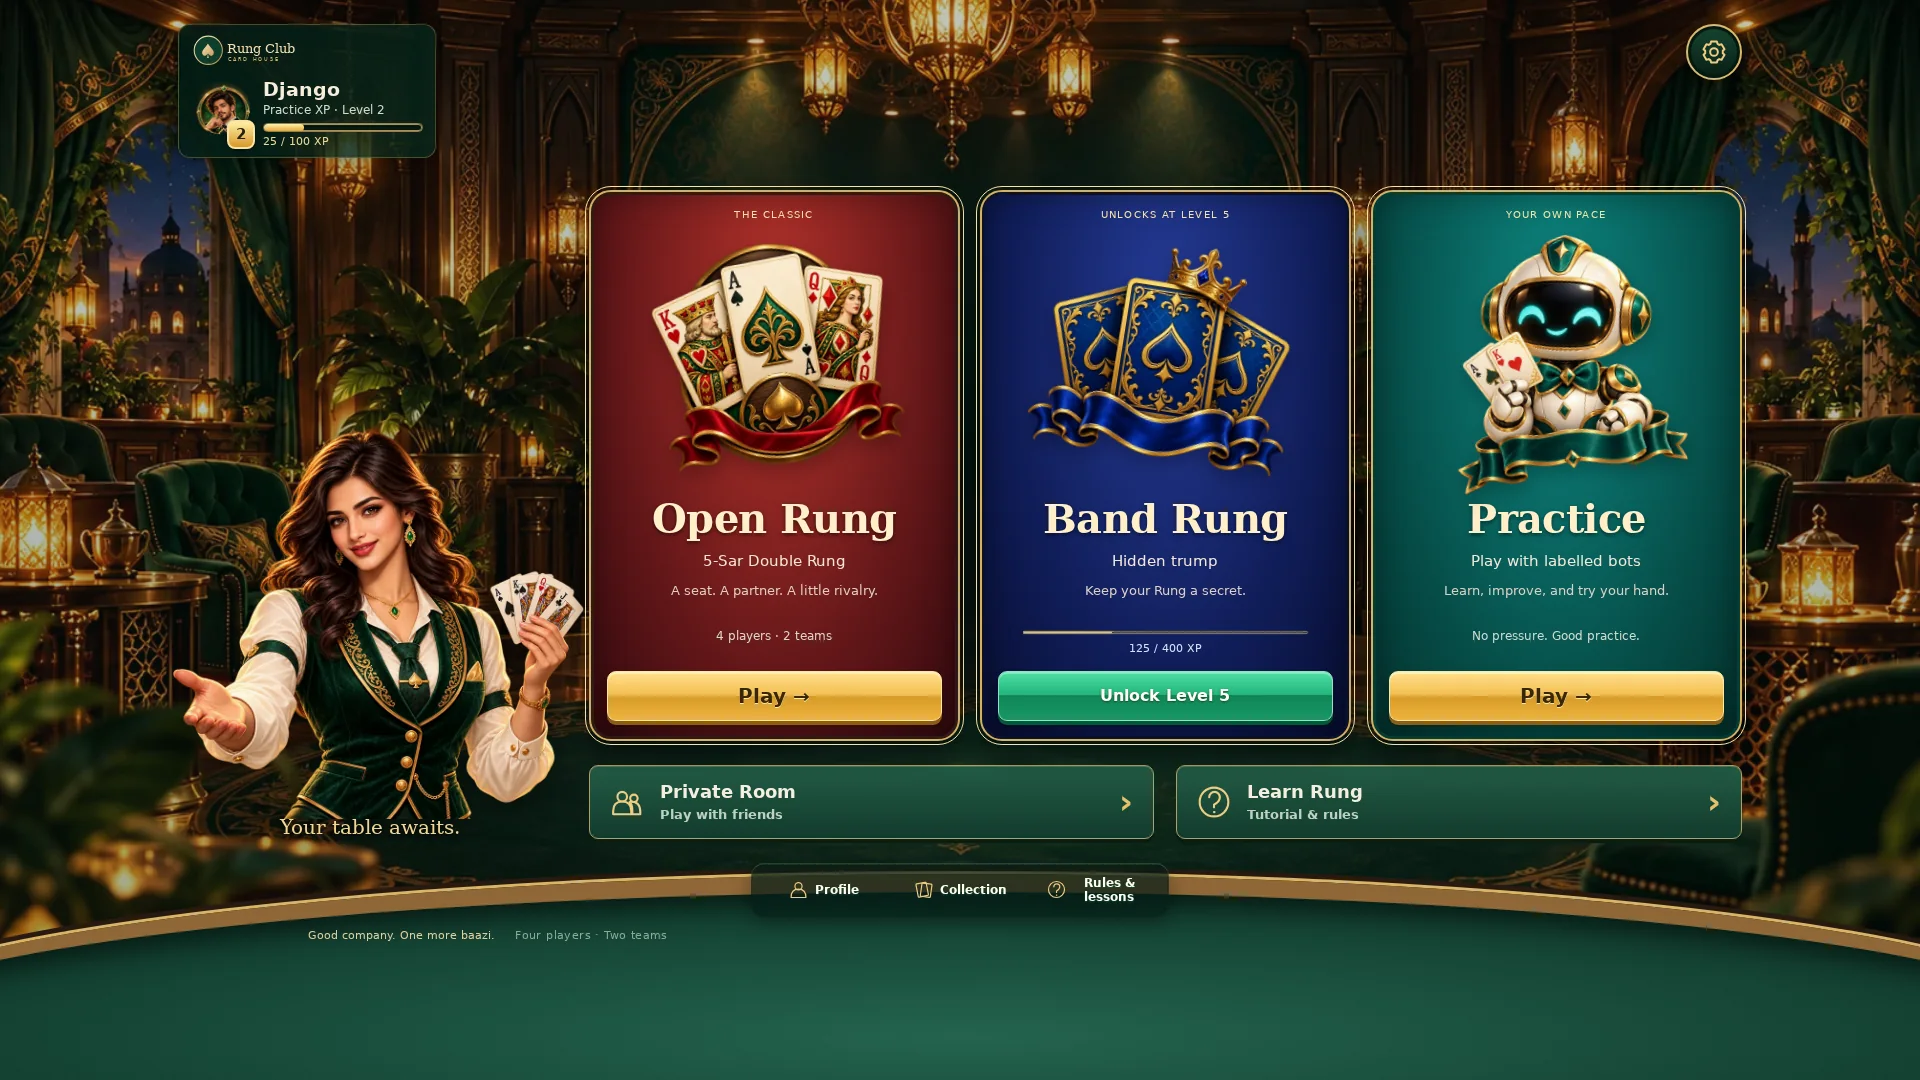
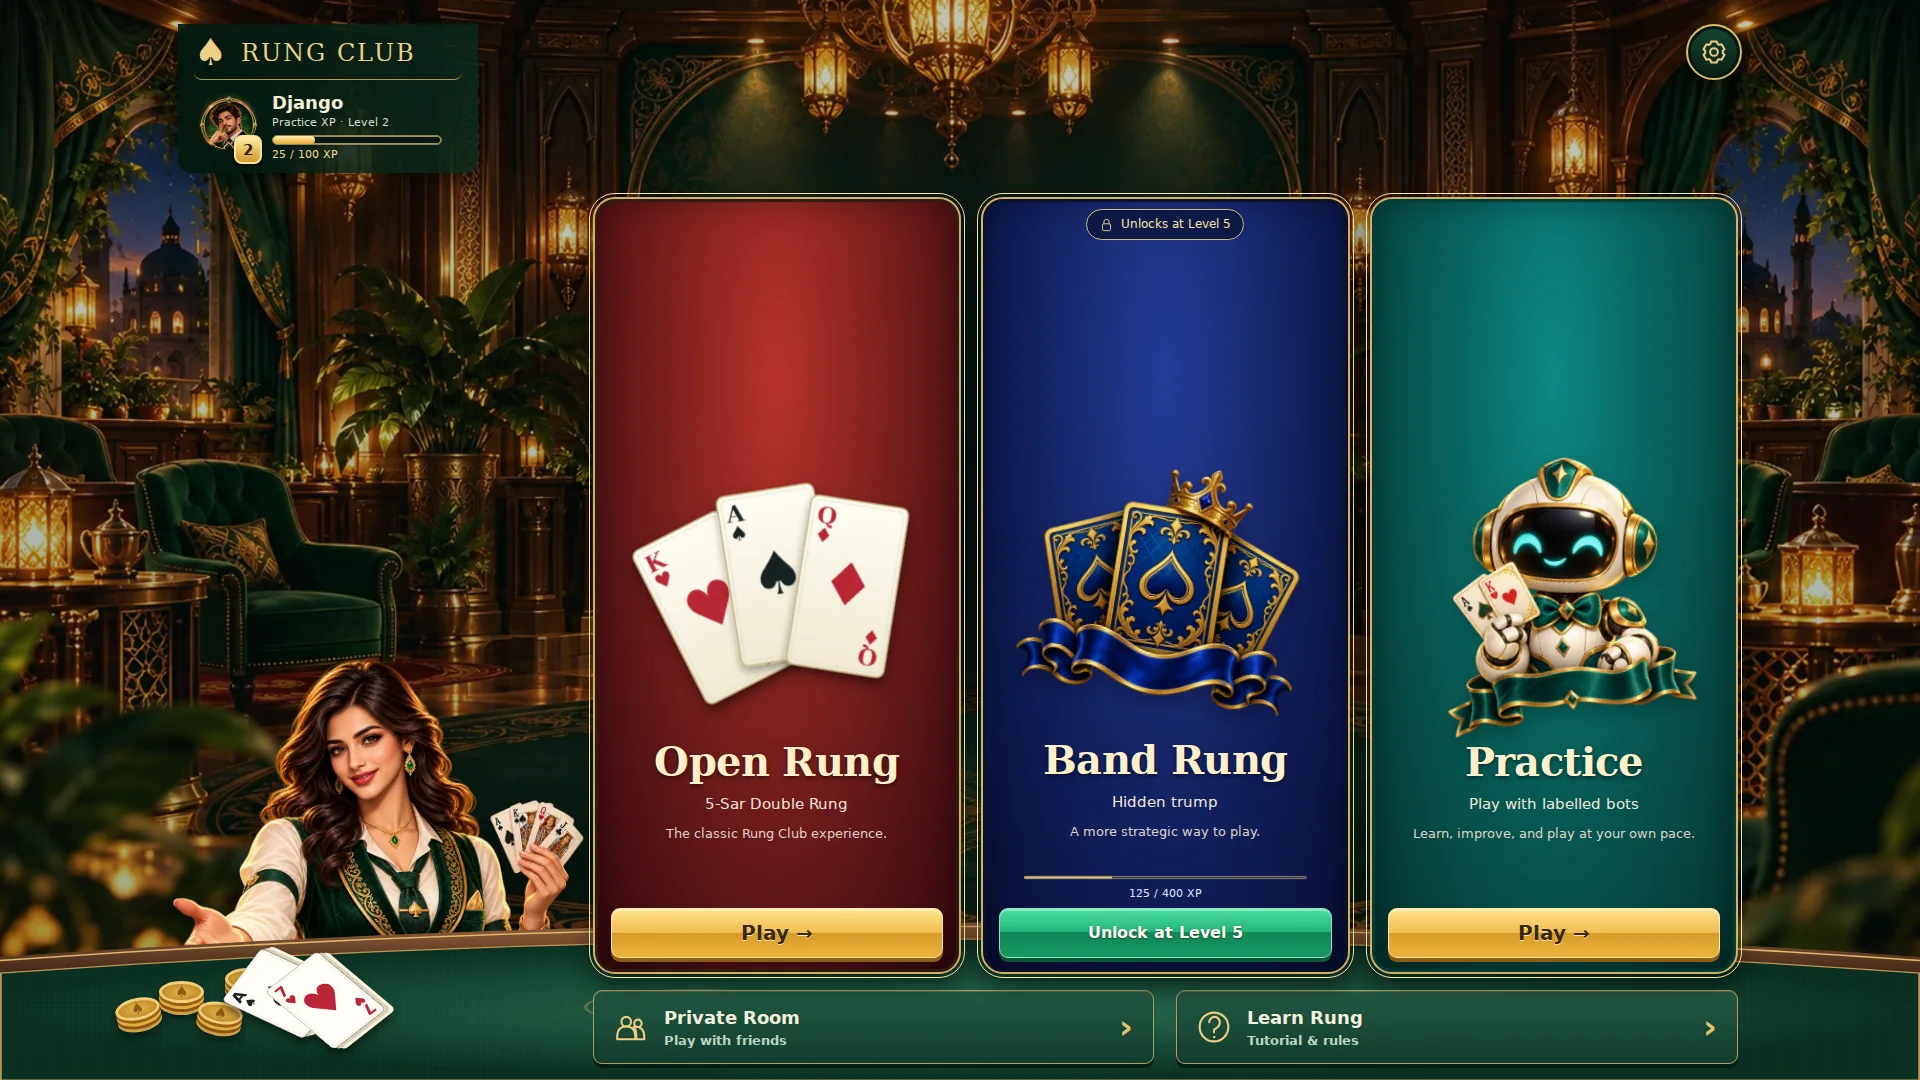
Fix lobby table cutoff and validate compact mobile layouts

diff --git a/tests/visual/lobby-redesign.spec.ts b/tests/visual/lobby-redesign.spec.ts
@@ -2,4 +2,4 @@ import {test as base,expect} from '@playwright/test';
 import fs from 'node:fs';
 const test=process.env.BROWSER_EXECUTABLE_PATH?base.extend({context:async({playwright},use)=>{const browser=await playwright.chromium.launch({executablePath:process.env.BROWSER_EXECUTABLE_PATH,args:['--no-sandbox','--disable-dev-shm-usage','--disable-gpu','--single-process','--no-zygote','--disable-software-rasterizer']});const context=await browser.newContext({baseURL:'http://127.0.0.1:5173'});await use(context);await browser.close();}}):base;
 const out='docs/art/qa-lobby-redesign';fs.mkdirSync(out,{recursive:true});
-for(const [width,height] of [[1920,1080],[1366,768],[412,924],[390,844],[360,800],[844,390]])test(`lobby redesigned ${width}x${height}`,async({page})=>{await page.addInitScript(()=>{localStorage.setItem('welcome','1');localStorage.setItem('profile',JSON.stringify({name:'Django',xp:125,matches:4,wins:2}));});await page.setViewportSize({width,height});await page.goto('/');await page.getByRole('button',{name:'Play as a Guest'}).click();await expect(page.locator('.game-tile')).toHaveCount(3);await expect(page.locator('.club-banner')).toHaveCount(0);await expect(page.getByRole('progressbar',{name:'Level progress'})).toHaveAttribute('aria-valuenow','25');await expect(page.getByRole('progressbar',{name:'Band Rung unlock progress'})).toHaveAttribute('value','125');await expect.poll(()=>page.locator('.lobby-mode-art').evaluateAll((els:HTMLImageElement[])=>els.every(img=>img.complete&&img.naturalWidth>0))).toBe(true);await page.mouse.move(0,0);await page.waitForTimeout(350);await page.screenshot({path:`${out}/${width}x${height}.png`,fullPage:true});expect(await page.evaluate(()=>document.documentElement.scrollWidth<=innerWidth)).toBe(true);for(const name of ['Play Open Rung','Unlock Level 5','Practice table']){const button=page.getByRole('button',{name,exact:true});await expect(button).toBeInViewport();expect((await button.boundingBox())!.height).toBeGreaterThanOrEqual(44);}const host=await page.locator('.lobby-host .dealer').boundingBox();expect(host!.width).toBeGreaterThan(100);await page.getByRole('button',{name:'Unlock Level 5',exact:true}).click();await expect(page.getByRole('dialog',{name:'Band Rung locked'})).toBeVisible();await page.getByRole('button',{name:'Back to the lobby',exact:true}).click();await page.getByRole('button',{name:'Private Room',exact:false}).click();await expect(page.getByLabel('Room code')).toBeVisible();});
+for(const [width,height] of [[1920,1080],[1366,768],[412,924],[390,844],[360,800],[320,640],[844,390],[932,430]])test(`lobby redesigned ${width}x${height}`,async({page})=>{await page.addInitScript(()=>{localStorage.setItem('welcome','1');localStorage.setItem('profile',JSON.stringify({name:'Django',xp:125,matches:4,wins:2}));});await page.setViewportSize({width,height});await page.goto('/');await page.getByRole('button',{name:'Play as a Guest'}).click();await expect(page.locator('.game-tile')).toHaveCount(3);await expect(page.locator('.club-banner')).toHaveCount(0);await expect(page.getByRole('progressbar',{name:'Level progress'})).toHaveAttribute('aria-valuenow','25');await expect(page.getByRole('progressbar',{name:'Band Rung unlock progress'})).toHaveAttribute('value','125');await expect.poll(()=>page.locator('.lobby-mode-art').evaluateAll((els:HTMLImageElement[])=>els.every(img=>img.complete&&img.naturalWidth>0))).toBe(true);await page.mouse.move(0,0);await page.waitForTimeout(350);await page.screenshot({path:`${out}/${width}x${height}.png`,fullPage:true});expect(await page.evaluate(()=>document.documentElement.scrollWidth<=innerWidth&&document.documentElement.scrollHeight<=innerHeight+1)).toBe(true);await expect(page.locator('.lobby-arrangement')).toHaveCSS('overflow-x','visible');const surface=await page.locator('.lobby-table-front').boundingBox();expect(surface!.x).toBeLessThanOrEqual(1);expect(surface!.x+surface!.width).toBeGreaterThanOrEqual(width-1);for(const card of await page.locator('.table-deck img').all()){const box=await card.boundingBox();expect(box!.x).toBeGreaterThanOrEqual(0);expect(box!.y+box!.height).toBeLessThanOrEqual(height-4);}for(const art of await page.locator('.lobby-mode-art').all())expect((await art.boundingBox())!.height).toBeGreaterThan(45);for(const title of await page.locator('.mode-tile h2').all()){const b=await title.boundingBox(),panel=await title.locator('..').locator('..').boundingBox();expect(b!.x).toBeGreaterThanOrEqual(panel!.x-1);expect(b!.x+b!.width).toBeLessThanOrEqual(panel!.x+panel!.width+1);}for(const description of await page.locator('.mode-description').all())await expect(description).toBeVisible();for(const name of ['Play Open Rung','Unlock Level 5','Practice table']){const button=page.getByRole('button',{name,exact:true});await expect(button).toBeInViewport();expect((await button.boundingBox())!.height).toBeGreaterThanOrEqual(44);}for(const name of ['Your profile','Settings','Learn the art of Rung'])await expect(page.getByRole('button',{name,exact:true})).toBeInViewport();await expect(page.getByRole('button',{name:'Private Room',exact:false})).toBeInViewport();const host=await page.locator('.lobby-host .dealer').boundingBox();expect(host!.width).toBeGreaterThan(100);await page.getByRole('button',{name:'Unlock Level 5',exact:true}).click();await expect(page.getByRole('dialog',{name:'Band Rung locked'})).toBeVisible();await page.getByRole('button',{name:'Back to the lobby',exact:true}).click();await page.getByRole('button',{name:'Private Room',exact:false}).click();await expect(page.getByLabel('Room code')).toBeVisible();});

diff --git a/apps/web/lobby.css b/apps/web/lobby.css
@@ -90,3 +90,23 @@
 @media(max-width:600px){.screen-lobby .lobby-arrangement{--host-height:clamp(110px,19dvh,170px);gap:0}.screen-lobby .lobby-host{height:var(--host-height);flex:0 0 var(--host-height)}.screen-lobby .lobby-play-area{flex:1;height:auto;min-height:0}.screen-lobby .lobby .game-menu{min-height:285px}.screen-lobby .lobby .game-tile{padding:7px 5px 10px}.screen-lobby .lobby .lobby-mode-art{max-height:18dvh}.screen-lobby .lobby .mode-description{min-height:39px;font-size:10px;margin:4px 0}.screen-lobby .lobby .mode-status{min-height:23px;margin:3px 0 5px}.screen-lobby .lobby .club-shortcuts{margin-top:12px}.lobby-table-front{top:calc(var(--host-height) - 45px)!important}.table-coins{top:30px}.table-deck{top:45px}}
 @media(max-height:550px) and (min-width:601px){.app.screen-lobby .lobby{padding-top:3px;padding-bottom:5px}.screen-lobby .lobby .game-menu{min-height:200px}.screen-lobby .lobby .game-tile{padding:5px 7px 8px}.screen-lobby .lobby .lobby-mode-art{max-height:21dvh}.screen-lobby .lobby .game-tile h2{font-size:20px;margin:3px 0}.screen-lobby .lobby .mode-description{font-size:9px;min-height:23px;margin:2px 0}.screen-lobby .lobby .mode-status{min-height:17px;margin:2px 0 3px}.screen-lobby .lobby .club-shortcuts{margin-top:10px}.lobby-table-front{top:calc(100% - 100px)!important}.table-coins{top:24px}.table-deck{top:55px}}
 .app.screen-lobby>header{width:100%;margin:0 auto}
+/* Only the viewport clips scenery; the inset content grid must not crop it. */
+.screen-lobby .lobby-arrangement,.screen-lobby .lobby-arrangement:has(.private-room){overflow:visible}
+.lobby-table-front{bottom:calc(-12px - env(safe-area-inset-bottom))!important}
+.table-deck{top:30px}
+@media(max-width:600px){.table-deck{top:30px}}
+@media(max-height:550px) and (min-width:601px){.lobby-table-front{bottom:calc(-5px - env(safe-area-inset-bottom))!important}.table-deck{top:12px}}
+/* Portrait is a separate composition: a fuller host area and compact mode cards. */
+@media(max-width:600px){
+ .screen-lobby .lobby-arrangement{--mode-card-height:clamp(285px,38dvh,345px);--host-height:clamp(100px,calc(100dvh - var(--mode-card-height) - 220px),340px)}
+ .screen-lobby .lobby-play-area{flex:0 0 auto;height:auto}
+ .screen-lobby .lobby .game-menu{flex:0 0 var(--mode-card-height);height:var(--mode-card-height);min-height:var(--mode-card-height)}
+ .screen-lobby .lobby-host>.dealer{width:min(80vw,310px);height:calc(var(--host-height) + 50px);bottom:-30px}
+ .screen-lobby .lobby .lobby-mode-art{max-height:112px}
+ .screen-lobby .lobby .game-tile .mode-description{display:block;font-size:10px;min-height:39px;line-height:1.3;margin:4px 0}
+ .screen-lobby .lobby .mode-tile{overflow:visible}
+ .table-coins{top:10px;transform:scale(.4)}.table-deck{left:22%;top:0;transform:scale(.4)}
+}
+@media(max-width:360px){.screen-lobby .lobby .game-tile h2{font-size:16px;letter-spacing:-.5px}}
+@media(max-width:340px){.screen-lobby .lobby .game-tile h2{font-size:14px;letter-spacing:-.3px}.screen-lobby .lobby .game-tile .mode-description{font-size:9px}}
+@media(max-height:550px) and (min-width:601px){.screen-lobby .lobby .game-tile .mode-description{display:block;font-size:9px;line-height:1.25;min-height:23px;margin:2px 0}}

diff --git a/docs/art/LOBBY_REDESIGN_QA.md b/docs/art/LOBBY_REDESIGN_QA.md
@@ -35,3 +35,10 @@ Production compilation and Android web-asset sync were performed to publish the 
 ### Viewport-height correction
 
 The lobby now occupies `100dvh`, with mode artwork using the available height and a shallower foreground table clipped to the scene. Decorative table overflow cannot enlarge the page. Private-room forms retain internal scrolling when expanded or when the keyboard reduces space. No tests or screenshots were run for this owner-reviewed correction; production compilation is required for publishing.
+
+
+## Cutoff correction and mobile validation
+
+Removed clipping at the inset lobby grid while retaining viewport-level bounds. The foreground table now fills the screen width and bottom edge; decorative cards sit above the lower boundary. Portrait layouts use compact mode cards and a larger dealer hero, with visible descriptions and smaller titles on narrow phones.
+
+All eight responsive browser cases passed: 1920×1080, 1366×768, 412×924, 390×844, 360×800, 320×640, 844×390 and 932×430. Checks cover full-width table, card decoration bounds, visible mode descriptions and titles, minimum 44px primary buttons, shortcut visibility, no outer scrolling, Band unlock and private-room navigation. Fresh desktop, portrait, landscape and small-phone screenshots are stored in qa-lobby-redesign. Production build and Capacitor asset synchronization passed. These are browser-emulated layouts, not physical Android-device tests. Gameplay and authentication logic were unchanged.
